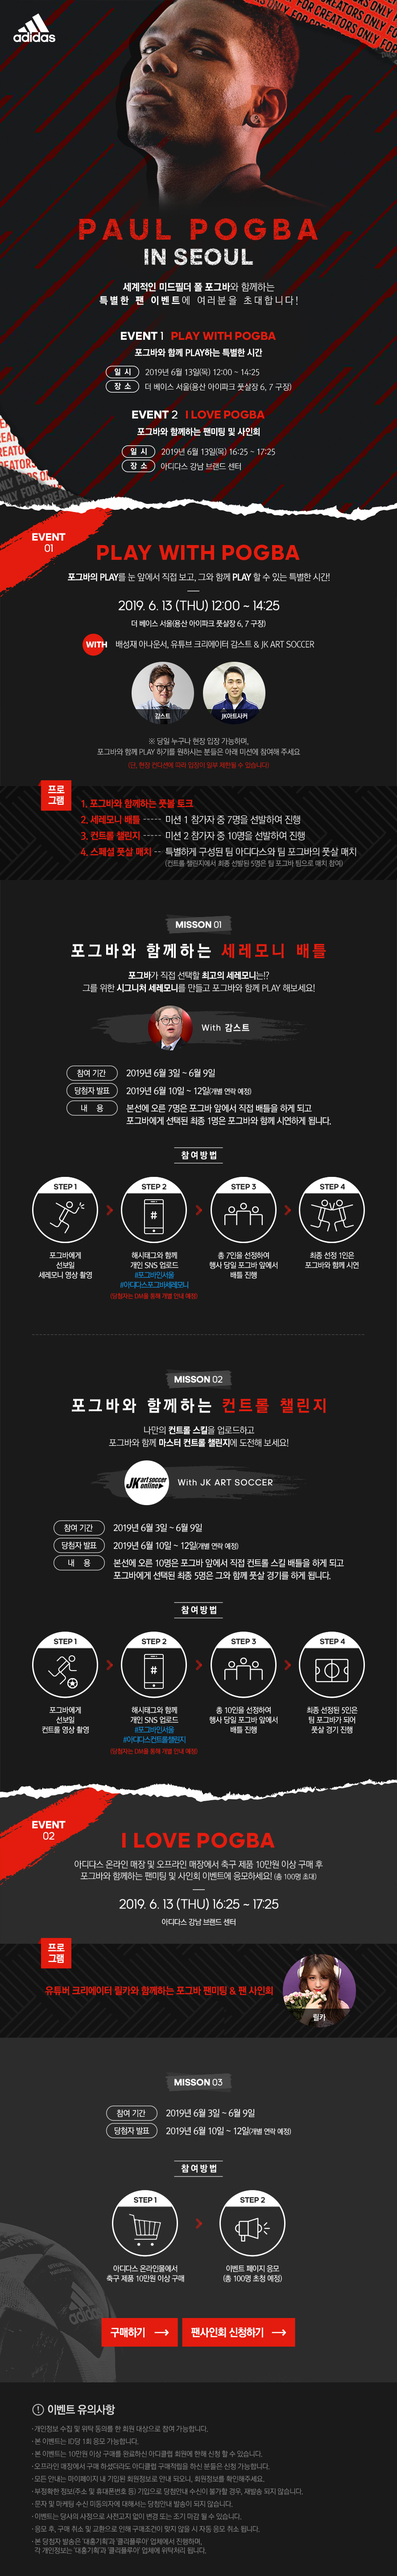
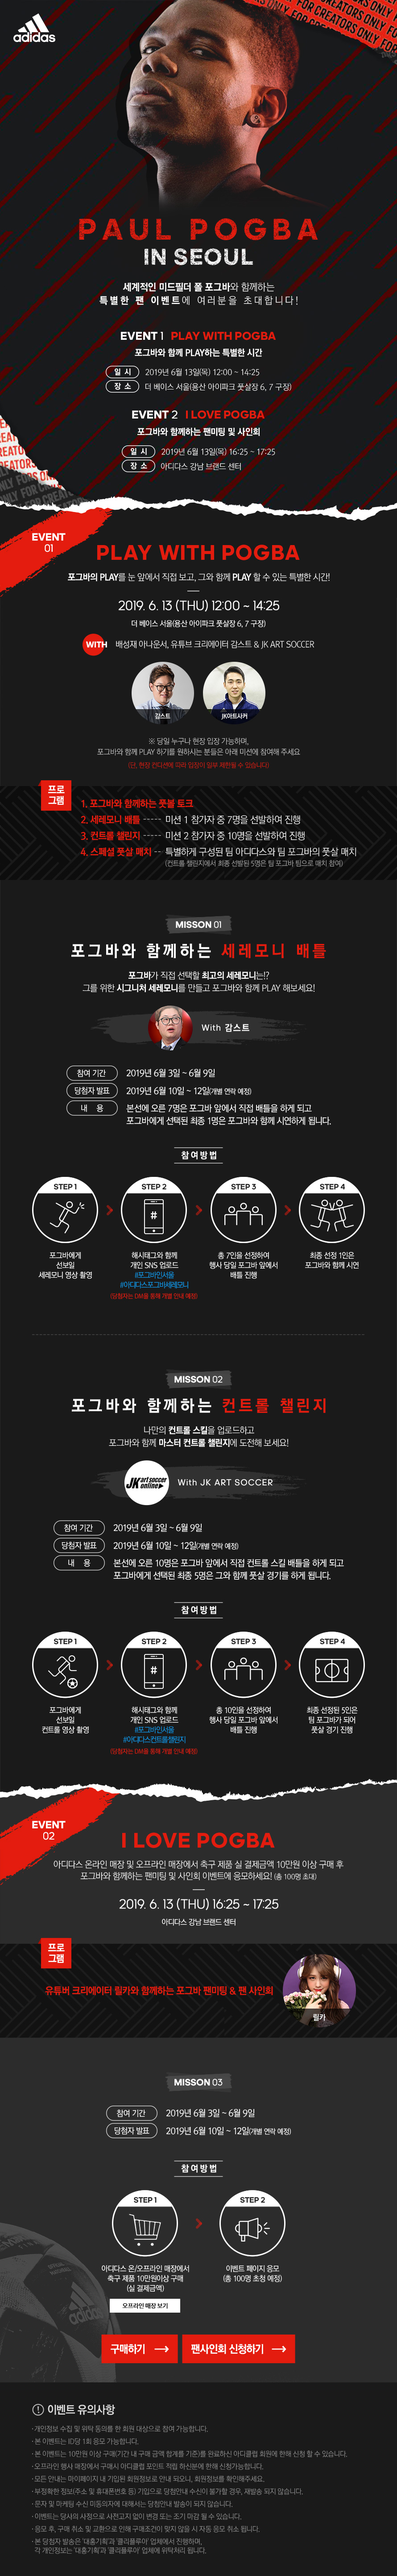
adi_evt_포그바 잦같네

Changed region(s): [[0.2427, 0.8748, 0.7584, 0.9373]]

diff --git a/front/html/adidas/2019/campaign/190603/index.html b/front/html/adidas/2019/campaign/190603/index.html
@@ -1302,8 +1302,9 @@
 										<div style="position:relative">
 											<img src="//image.adidas.co.kr/html/adidas/2019/campaign/190603/event_img.jpg" usemap="#map1" >
 											<map name="map1" id="map1">
-												<area shape="rect" coords="227,5184,398,5247" href="https://shop.adidas.co.kr/PF020204.action?S_BRAND_CD=1&S_CTGR_CD=01004001001" alt="구매하기">
-												<area shape="rect" coords="409,5184,660,5247" href="#" alt="신청하기">
+												<area shape="rect" coords="246,5141,403,5171" href="https://shop.adidas.co.kr/PF110101.action?EVENT_ID=6625 " alt="오프라인 매장">
+												<area shape="rect" coords="227,5221,398,5283" href="https://shop.adidas.co.kr/PF020204.action?S_BRAND_CD=1&S_CTGR_CD=01004001001" alt="구매하기">
+												<area shape="rect" coords="409,5220,660,5284" href="#" alt="신청하기">
 											</map>                                            
 										</div>
 									</div>
